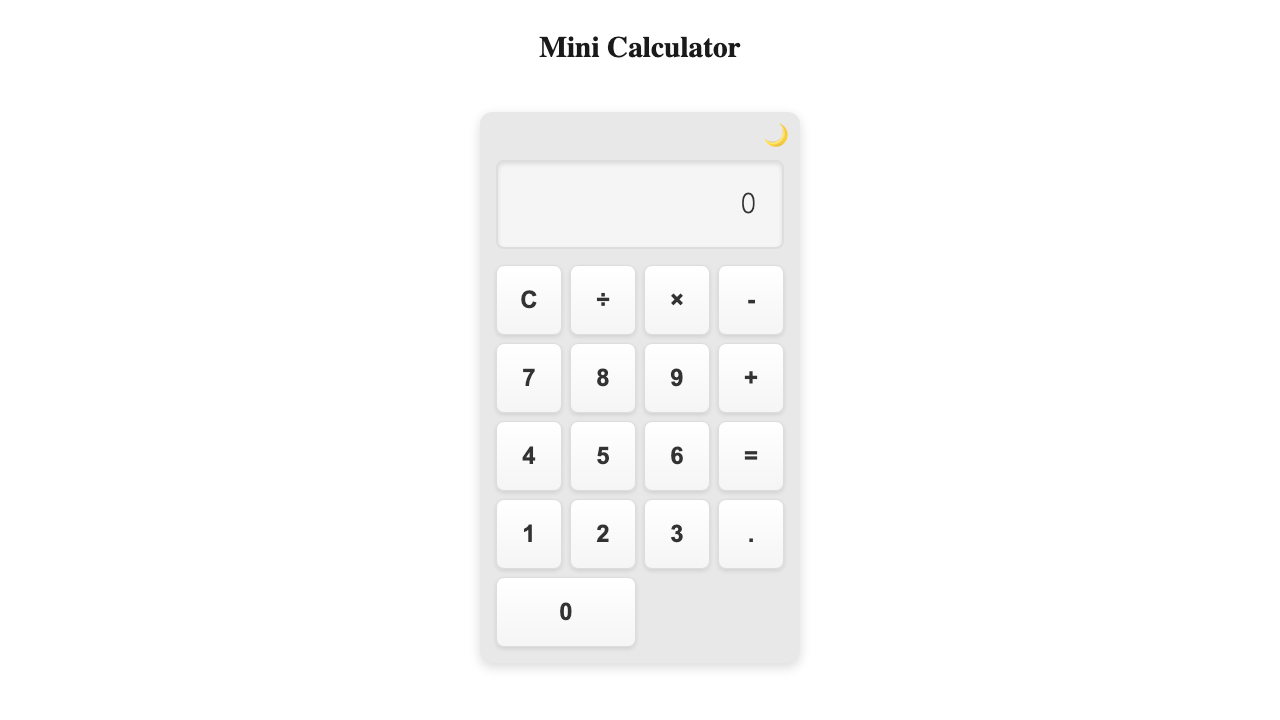
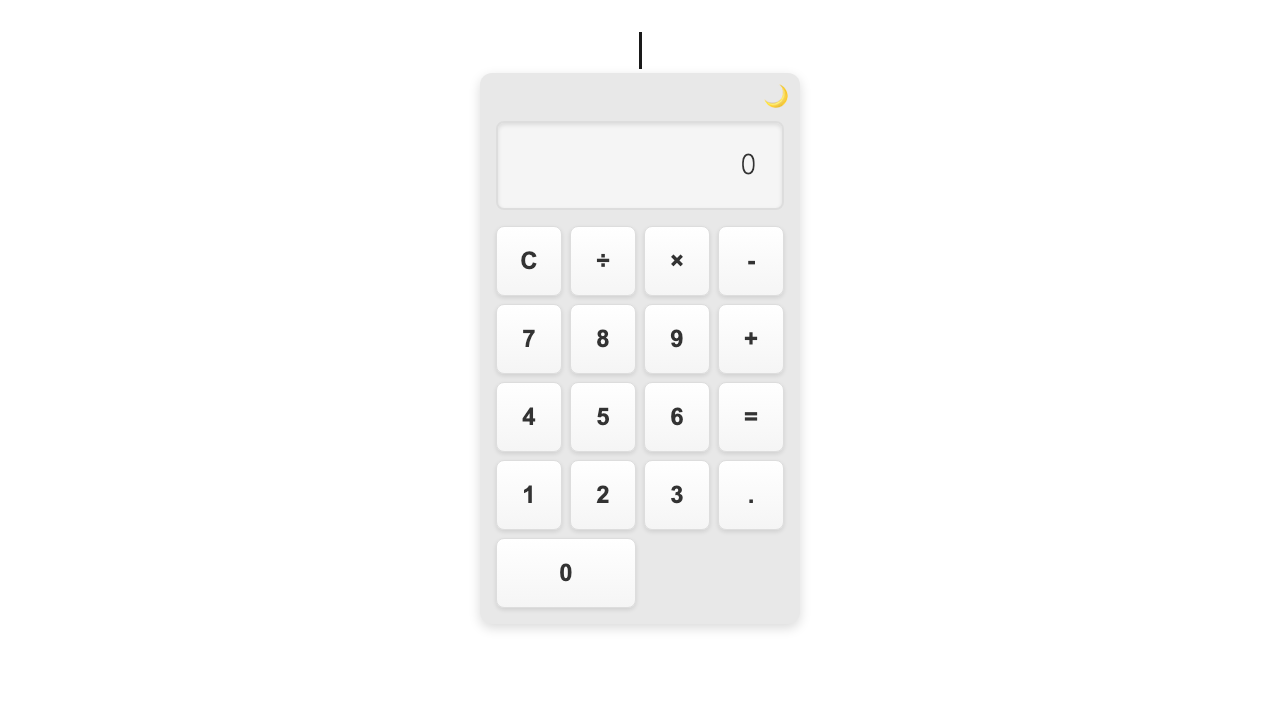
fix: visual QA fixes (best effort, 2 attempt(s))

diff --git a/src/App.css b/src/App.css
@@ -90,10 +90,10 @@ body {
 
 @keyframes typewriter {
   from {
-    width: 0;
+    max-width: 0;
   }
   to {
-    width: 100%;
+    max-width: 20ch;
   }
 }
 
@@ -114,8 +114,8 @@ h1 {
   overflow: hidden;
   white-space: nowrap;
   border-right: 3px solid var(--app-text);
-  width: 0;
-  animation: typewriter 2.5s steps(15) 0.5s forwards, blinkCursor 0.75s step-end infinite;
+  max-width: 0;
+  animation: typewriter 1.5s steps(15) forwards, blinkCursor 0.75s step-end infinite;
   display: inline-block;
   margin: 0 auto;
 }
@@ -124,7 +124,7 @@ h1 {
 @media (prefers-reduced-motion: reduce) {
   h1 {
     animation: none;
-    width: auto;
+    max-width: none;
     border-right: none;
   }
 }
